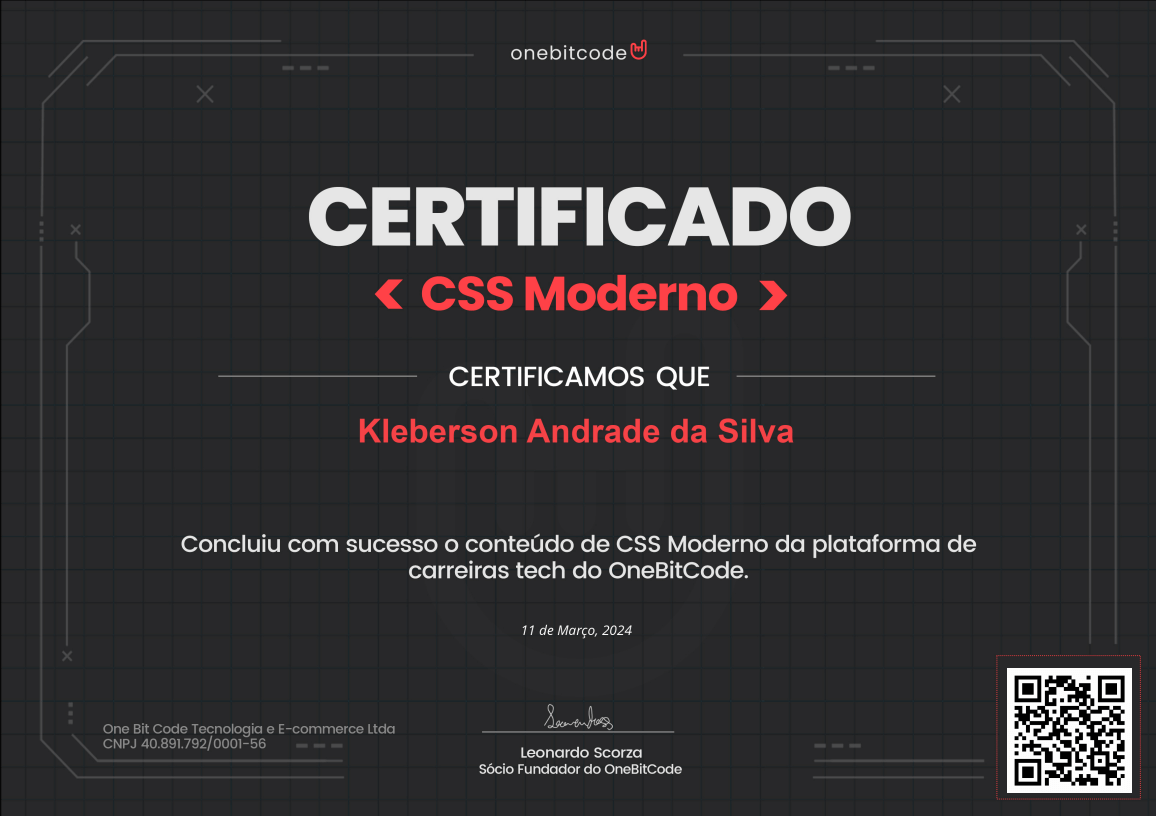
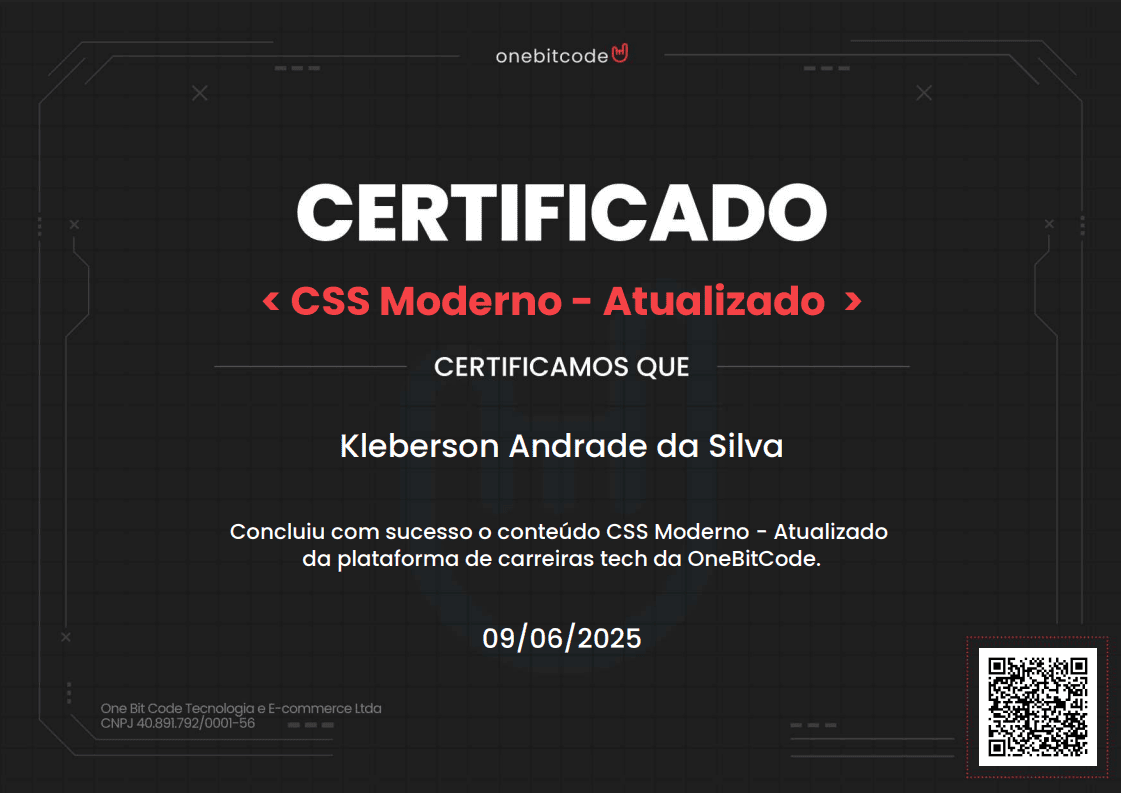
Atualizando os certificados

diff --git a/src/data/WorkData.js b/src/data/WorkData.js
@@ -229,58 +229,82 @@ export const Certificate = [
   },
   {
     id: 11,
-    image: '/images/Certs/One4.png'
+    image: '/images/Certs/OneBootSass.png'
   },
   {
     id: 12,
-    image: '/images/Certs/Jav3Cert.png'
+    image: '/images/Certs/Jav1Cert.png'
   },
   {
     id: 13,
-    image: '/images/Certs/GitHubCert.png'
+    image: '/images/Certs/Jav2Cert.png'
   },
   {
     id: 14,
-    image: '/images/Certs/One6.png'
+    image: '/images/Certs/Jav3Cert.png'
   },
   {
     id: 15,
-    image: '/images/Certs/One7.png'
+    image: '/images/Certs/Jav4Cert.png'
   },
   {
     id: 16,
-    image: '/images/Certs/One8.png'
+    image: '/images/Certs/Jav5Cert.png'
   },
   {
     id: 17,
-    image: '/images/Certs/One9.png'
+    image: '/images/Certs/CertType.png'
   },
   {
     id: 18,
-    image: '/images/Certs/One10.png'
+    image: '/images/Certs/GitHubCert.png'
   },
   {
     id: 19,
-    image: '/images/Certs/SQLCert.png'
+    image: '/images/Certs/One9.png'
   },
   {
     id: 20,
-    image: '/images/Certs/Desc1.png'
+    image: '/images/Certs/One10.png'
   },
   {
     id: 21,
-    image: '/images/Certs/Desc2.png'
+    image: '/images/Certs/SQLCert.png'
   },
   {
     id: 22,
-    image: '/images/Certs/Desc3.png'
+    image: '/images/Certs/CertIntoNode.png'
   },
   {
     id: 23,
-    image: '/images/Certs/IntoCybersecurityCert.png'
+    image: '/images/Certs/CertWebNode.png'
   },
   {
     id: 24,
+    image: '/images/Certs/Desc1.png'
+  },
+  {
+    id: 25,
+    image: '/images/Certs/Desc2.png'
+  },
+  {
+    id: 26,
+    image: '/images/Certs/Desc3.png'
+  },
+  {
+    id: 27,
+    image: '/images/Certs/Desc4.png'
+  },
+  {
+    id: 28,
+    image: '/images/Certs/IntoCybersecurityCert.png'
+  },
+  {
+    id: 29,
     image: '/images/Certs/CertHarvard.png'
+  },
+  {
+    id: 30,
+    image: '/images/Certs/DioBradesco.png'
   }
 ]
